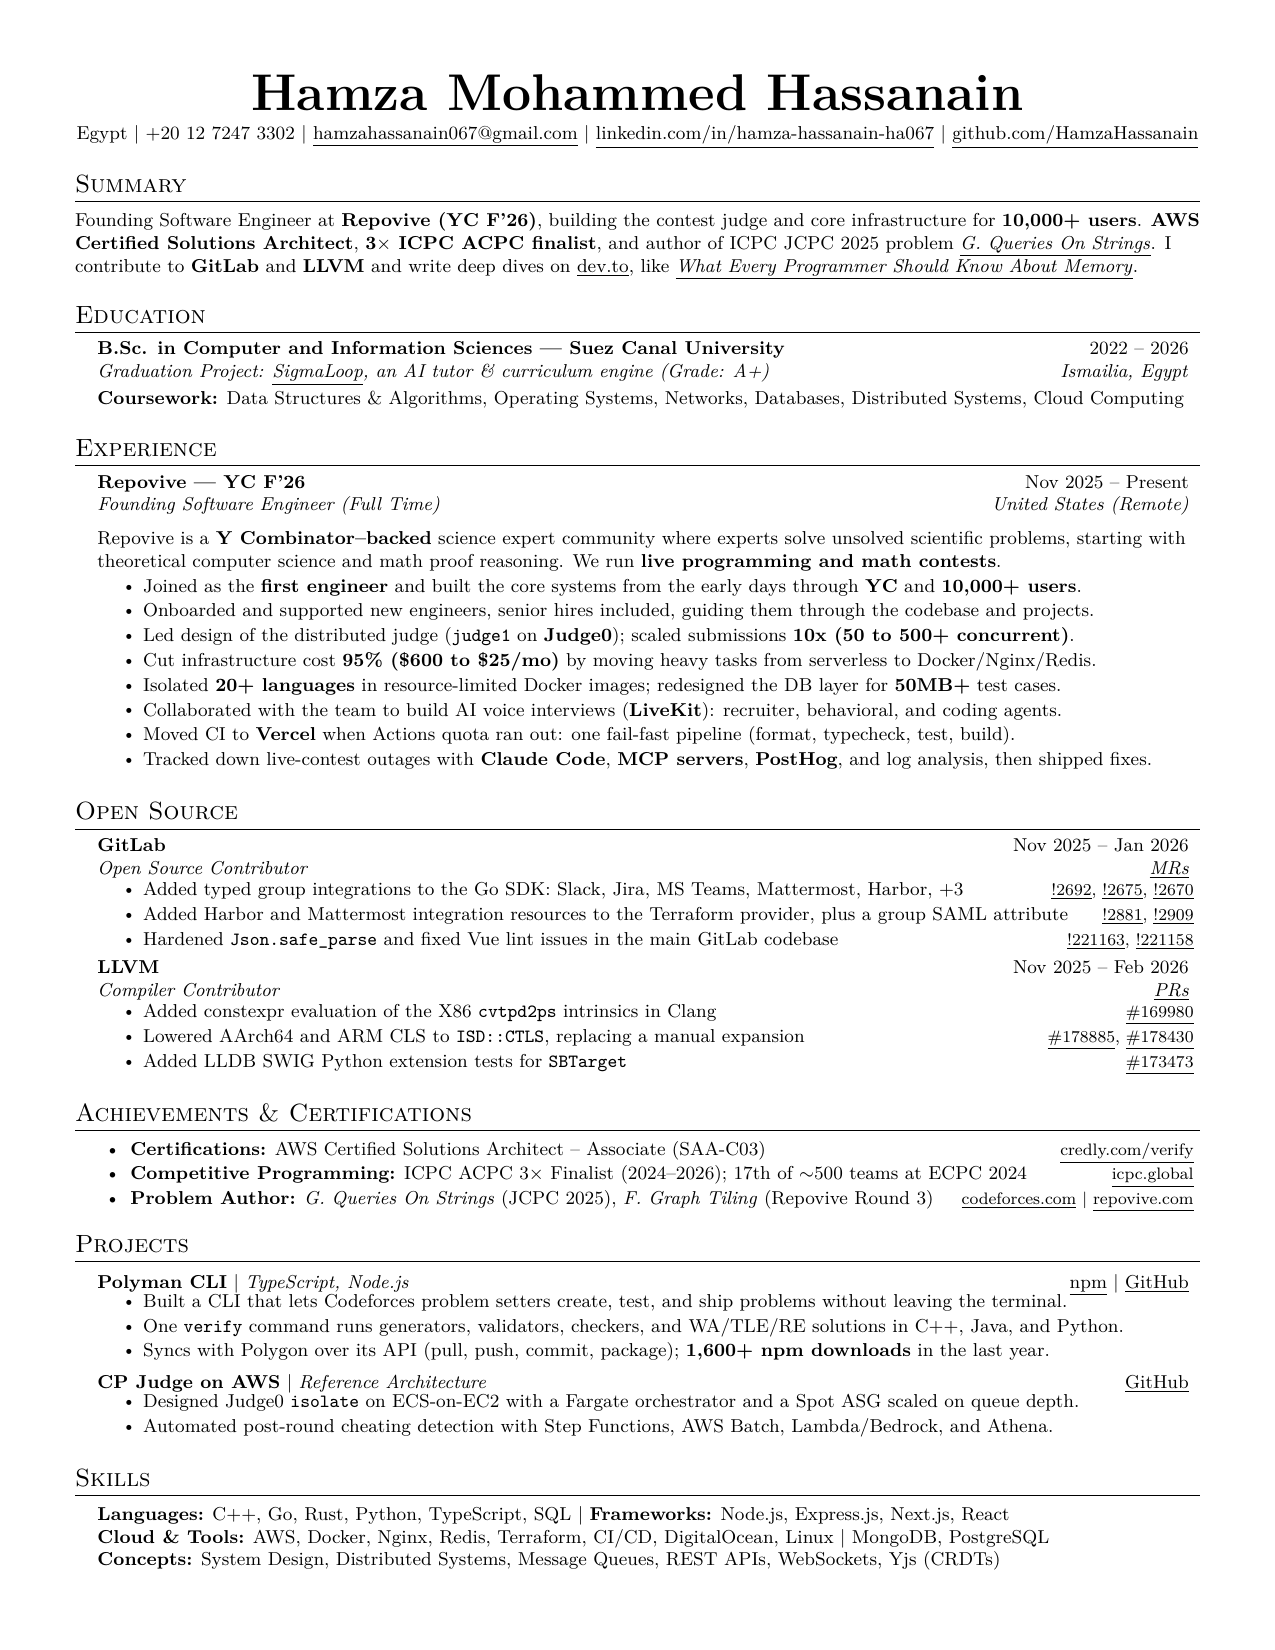
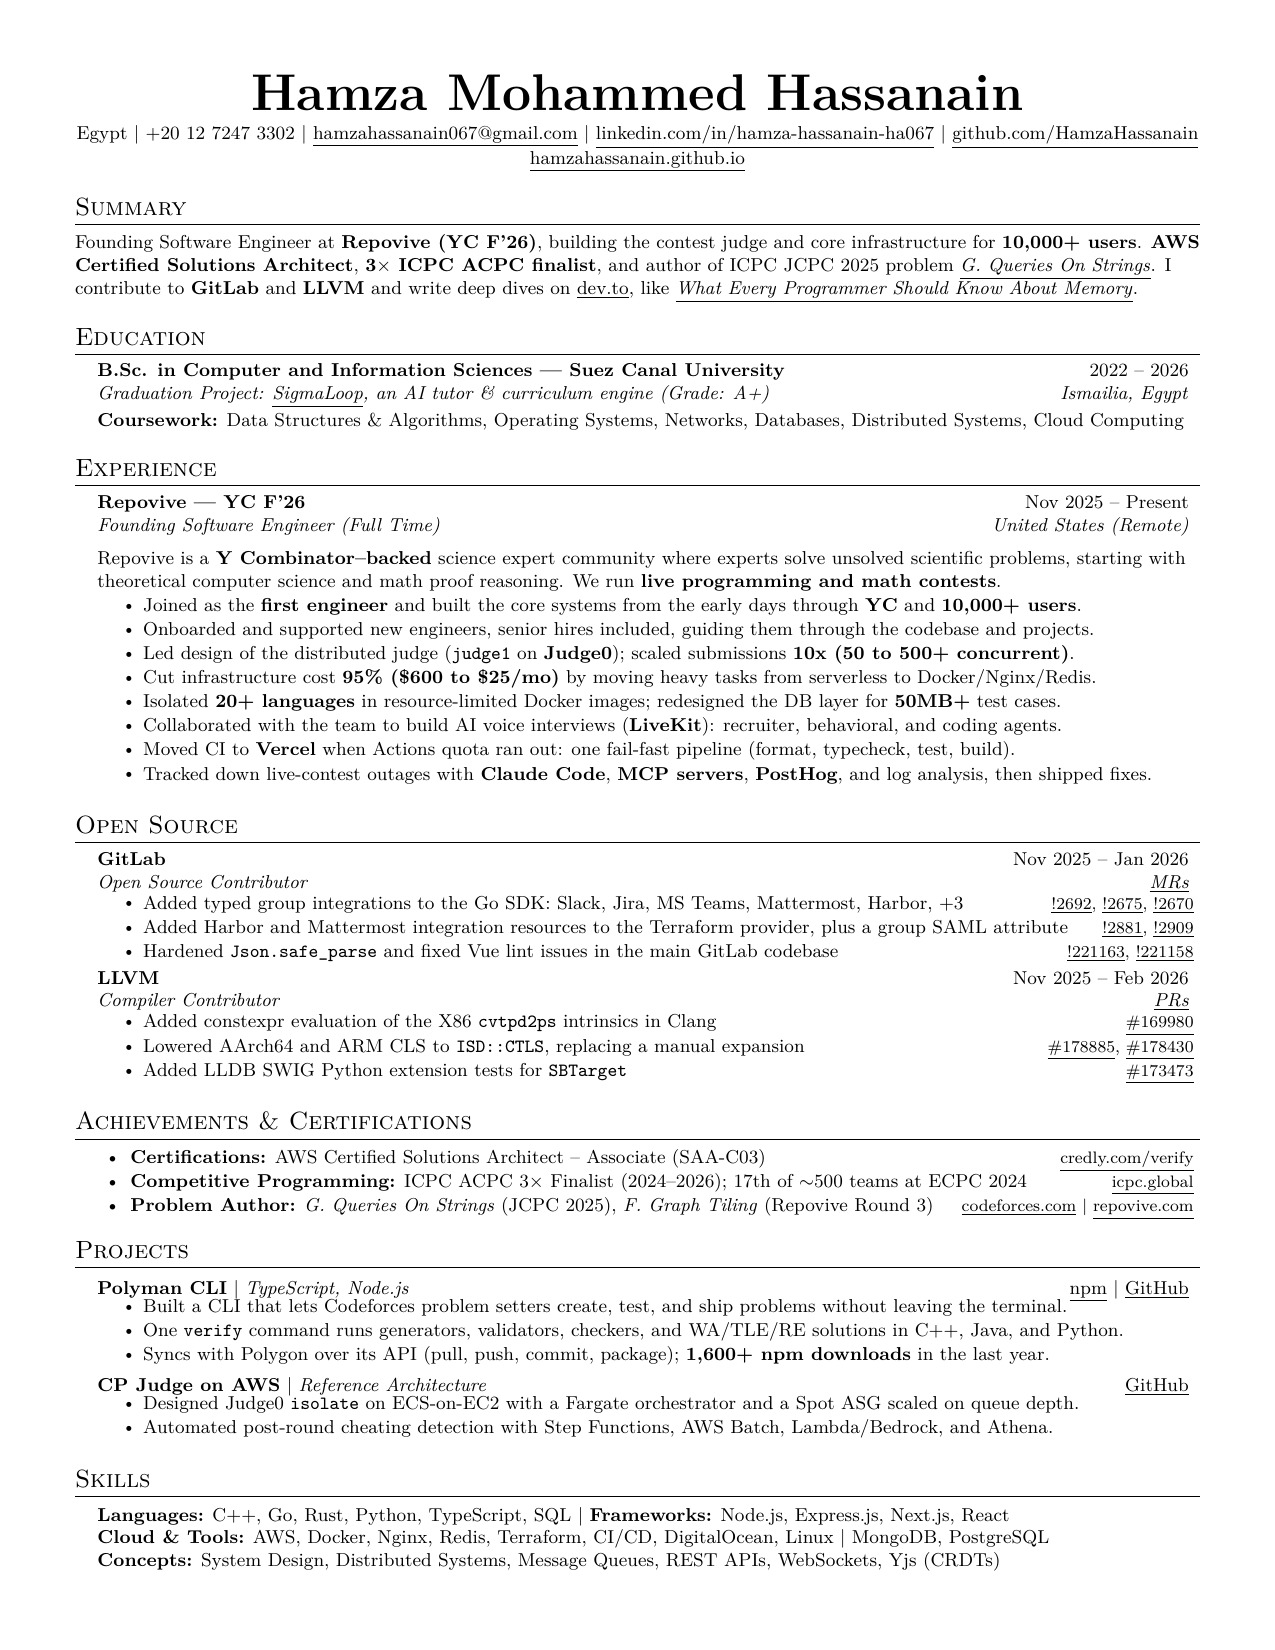
Header: add website (hamzahassanain.github.io) centered below contact links

diff --git a/resume.tex b/resume.tex
@@ -10,7 +10,8 @@
     \small Egypt $|$ +20 12 7247 3302 $|$
     \ulink{mailto:hamzahassanain067@gmail.com}{hamzahassanain067@gmail.com} $|$
     \ulink{https://www.linkedin.com/in/hamza-hassanain-ha067/}{linkedin.com/in/hamza-hassanain-ha067} $|$
-    \ulink{https://github.com/HamzaHassanain}{github.com/HamzaHassanain}
+    \ulink{https://github.com/HamzaHassanain}{github.com/HamzaHassanain} \\ \vspace{1pt}
+    \ulink{https://hamzahassanain.github.io/}{hamzahassanain.github.io}
 \end{center}
 
 \section{Summary}
